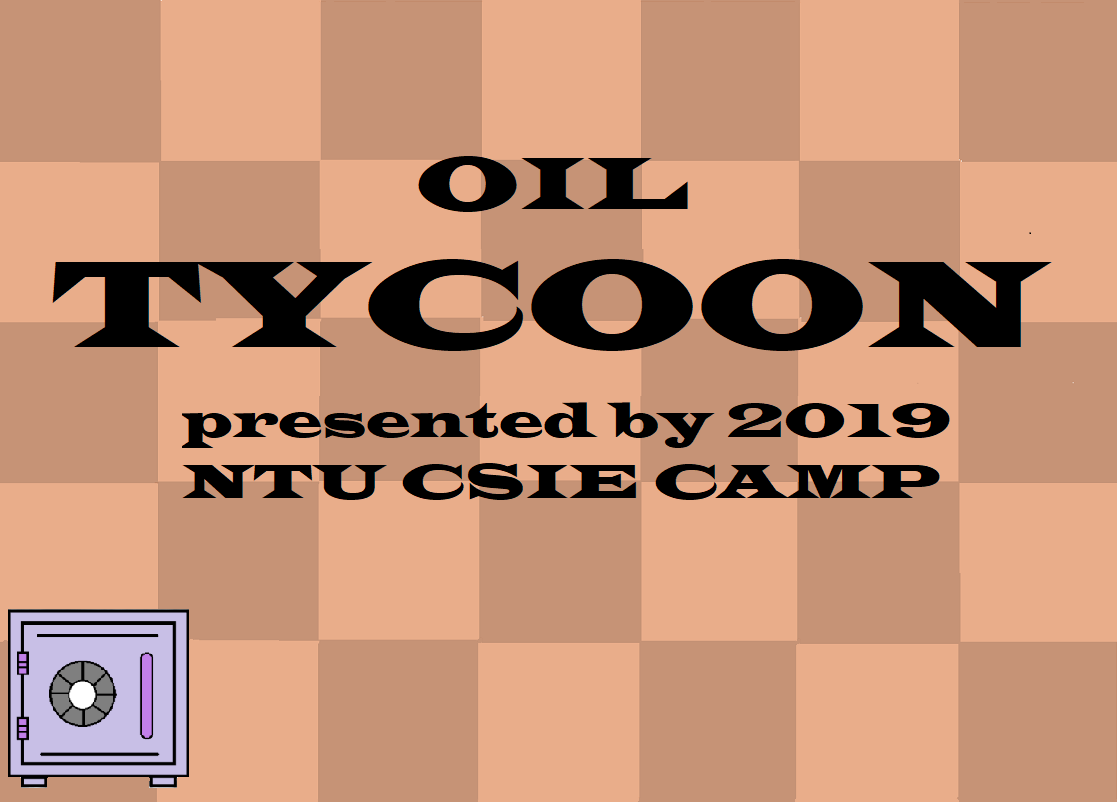
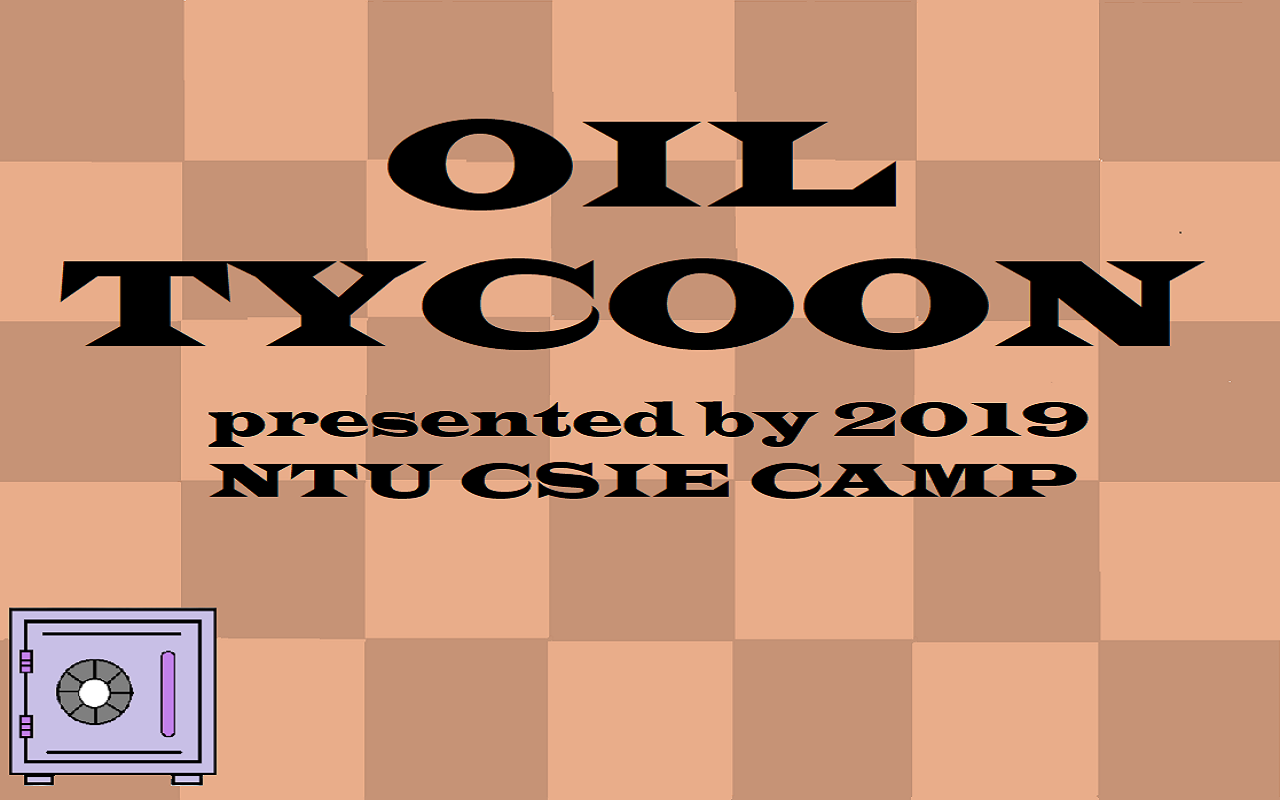
Change blackhole picture and adjust freeze picture

diff --git a/View/staticobjects.py b/View/staticobjects.py
@@ -30,6 +30,12 @@ class __Object_base():
     def __init__(self, model):
         self.model = model
 
+class View_menu(__Object_base):
+    def __init__(self, model):
+        self.menu = view_utils.scaled_surface(pg.image.load(os.path.join('View', 'image', 'menu.png')), 1)
+    def draw(self, screen):
+        image_menu = self.menu
+        screen.blit(image_menu, [0, 0])
 
 class View_background(__Object_base):
     def __init__(self, model):
@@ -69,7 +75,7 @@ class View_players(__Object_base):
     def init_convert(cls):
         cls.images = tuple( _image.convert_alpha() for _image in cls.images )
         cls.image_freeze = cls.image_freeze.convert_alpha()
-        cls.images_color = cls.images_color.convert_alpha()
+    #    cls.images_color = cls.images_color.convert_alpha()
 
     def draw(self, screen):
         players = self.model.player_list
@@ -169,7 +175,7 @@ class View_scoreboard(__Object_base):
     magnet = view_utils.scaled_surface(pg.image.load(os.path.join(view_const.IMAGE_PATH, 'magnet.png')), 0.3)
     star = view_utils.scaled_surface(pg.image.load(os.path.join(view_const.IMAGE_PATH, 'star.png')), 0.3)
     timer = view_utils.scaled_surface(pg.image.load(os.path.join(view_const.IMAGE_PATH, 'clock.png')), 0.3)
-    blackhole = view_utils.scaled_surface(pg.image.load(os.path.join(view_const.IMAGE_PATH, 'blackhole.png')), 0.3)
+    hurricane = view_utils.scaled_surface(pg.image.load(os.path.join(view_const.IMAGE_PATH, 'hurricane.png')), 0.3)
     staff = view_utils.scaled_surface(pg.image.load(os.path.join(view_const.IMAGE_PATH, 'staff.png')), 0.3)
     bomb = view_utils.scaled_surface(pg.image.load(os.path.join(view_const.IMAGE_PATH, 'bomb.png')), 0.25)
     shuffle = view_utils.scaled_surface(pg.image.load(os.path.join(view_const.IMAGE_PATH, 'shuffle.png')), 0.3)
@@ -180,7 +186,7 @@ class View_scoreboard(__Object_base):
         magnet = cls.magnet.convert_alpha()
         star = cls.star.convert_alpha()
         timer = cls.timer.convert_alpha()
-        blackhole = cls.blackhole.convert_alpha()
+        hurricane = cls.hurricane.convert_alpha()
         staff = cls.staff.convert_alpha()
         bomb = cls.bomb.convert_alpha()
         shuffle = cls.shuffle.convert_alpha()
@@ -205,7 +211,7 @@ class View_scoreboard(__Object_base):
             elif isinstance(score.player.item, model_item.TheWorld):
                 item_image = self.timer
             elif isinstance(score.player.item, model_item.OtherGoHome):
-                item_image = self.blackhole
+                item_image = self.hurricane
             elif isinstance(score.player.item, model_item.RadiationOil):
                 item_image = self.bomb
             elif isinstance(score.player.item, model_item.RadiusNotMove):
@@ -225,7 +231,7 @@ class View_items(__Object_base):
         self.magnet = view_utils.scaled_surface(pg.image.load(os.path.join('View', 'image', 'magnet.png')), 0.2)
         self.star = view_utils.scaled_surface(pg.image.load(os.path.join('View', 'image', 'star.png')), 0.2)
         self.timer = view_utils.scaled_surface(pg.image.load(os.path.join('View', 'image', 'clock.png')), 0.2)
-        self.blackhole = view_utils.scaled_surface(pg.image.load(os.path.join('View', 'image', 'blackhole.png')), 0.2)
+        self.hurricane = view_utils.scaled_surface(pg.image.load(os.path.join('View', 'image', 'hurricane.png')), 0.2)
         self.staff = view_utils.scaled_surface(pg.image.load(os.path.join('View', 'image', 'staff.png')), 0.2)
         self.bomb = view_utils.scaled_surface(pg.image.load(os.path.join('View', 'image', 'bomb.png')), 0.15)
         self.shuffle = view_utils.scaled_surface(pg.image.load(os.path.join('View', 'image', 'shuffle.png')), 0.2)
@@ -242,7 +248,7 @@ class View_items(__Object_base):
             elif isinstance(market.item, model_item.TheWorld):
                 image = self.timer
             elif isinstance(market.item, model_item.OtherGoHome):
-                image = self.blackhole
+                image = self.hurricane
             elif isinstance(market.item, model_item.RadiationOil):
                 image = self.bomb
             elif isinstance(market.item, model_item.RadiusNotMove):
@@ -296,3 +302,4 @@ def init_staticobjects():
     View_pets.init_convert()
     View_items.init_convert()
     View_scoreboard.init_convert()
+    View_menu.init_convert()

diff --git a/View/main.py b/View/main.py
@@ -59,6 +59,7 @@ class GraphicalView(object):
         self.items = view_staticobjects.View_items(model)
         self.endboard = view_staticobjects.View_endboard(model)
         self.background = view_staticobjects.View_background(model)
+        self.menu = view_staticobjects.View_menu(model)
 
 
     def notify(self, event):
@@ -125,7 +126,7 @@ class GraphicalView(object):
             self.title_counter = 0
 
         # draw backround
-        self.screen.fill(view_const.COLOR_BLACK)
+        self.menu.draw(self.screen)
 
         # word animation
         titlefont = pg.font.Font(view_const.board_name_font, 90)
@@ -142,16 +143,6 @@ class GraphicalView(object):
             gray = ((155 + (title_loop_counter - self.darken_time[1]) / 5 * 100),) * 3
         else:
             gray = (255,) * 3
-
-        words_1 = titlefont.render("Fa", True, gray)
-        words_2 = titlefont.render("Da", True, gray)
-        words_3 = titlefont.render("Cai!", True, gray)
-        words_4 = littlefont.render("presented by 2019 NTU CSIE CAMP", True, gray)
-
-        self.screen.blit(words_1, (595,150))
-        self.screen.blit(words_2, (595,300))
-        self.screen.blit(words_3, (570,450))
-        self.screen.blit(words_4, (320,600))
 
         self.title_counter += 1
         

diff --git a/Model/const.py b/Model/const.py
@@ -123,14 +123,14 @@ fadacai_oil_probability = 1 / 3
 
 priced_item_activate = {
     'IGoHome': False,
-    'OtherGoHome': False,
+    'OtherGoHome': True,
     'TheWorld': False,
-    'MagnetAttract': True,
-    'Invincible': True,
+    'MagnetAttract': False,
+    'Invincible': False,
     'RadiusNotMove': True,
-    'RadiationOil': True,
-    'ShuffleBases': True,
-    'FaDaCai': True,
+    'RadiationOil': False,
+    'ShuffleBases': False,
+    'FaDaCai': False,
 }
 
 
